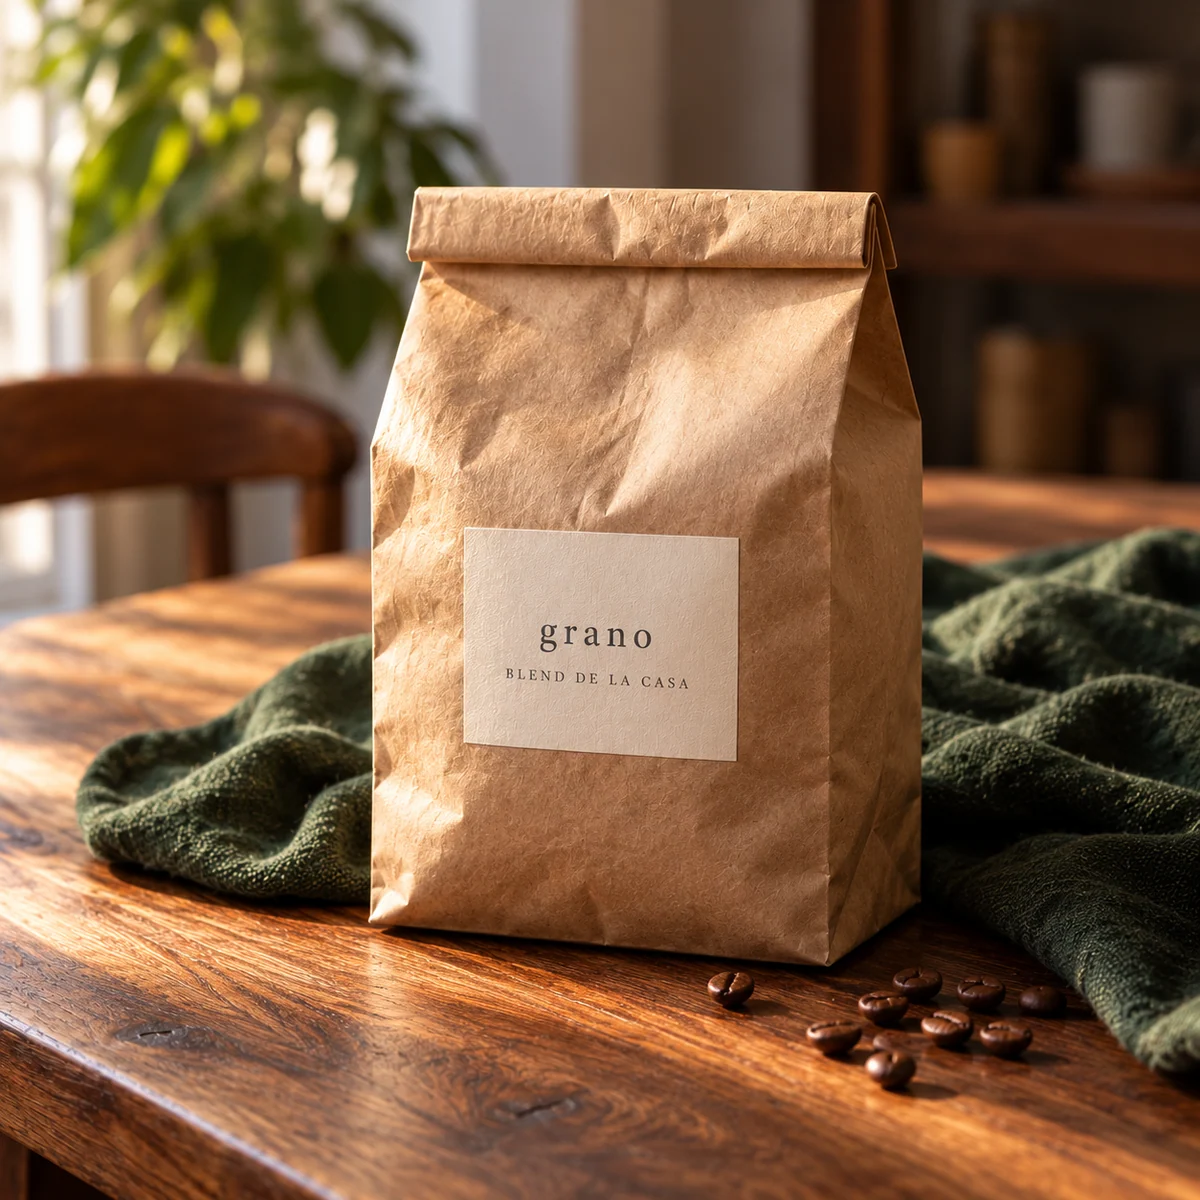
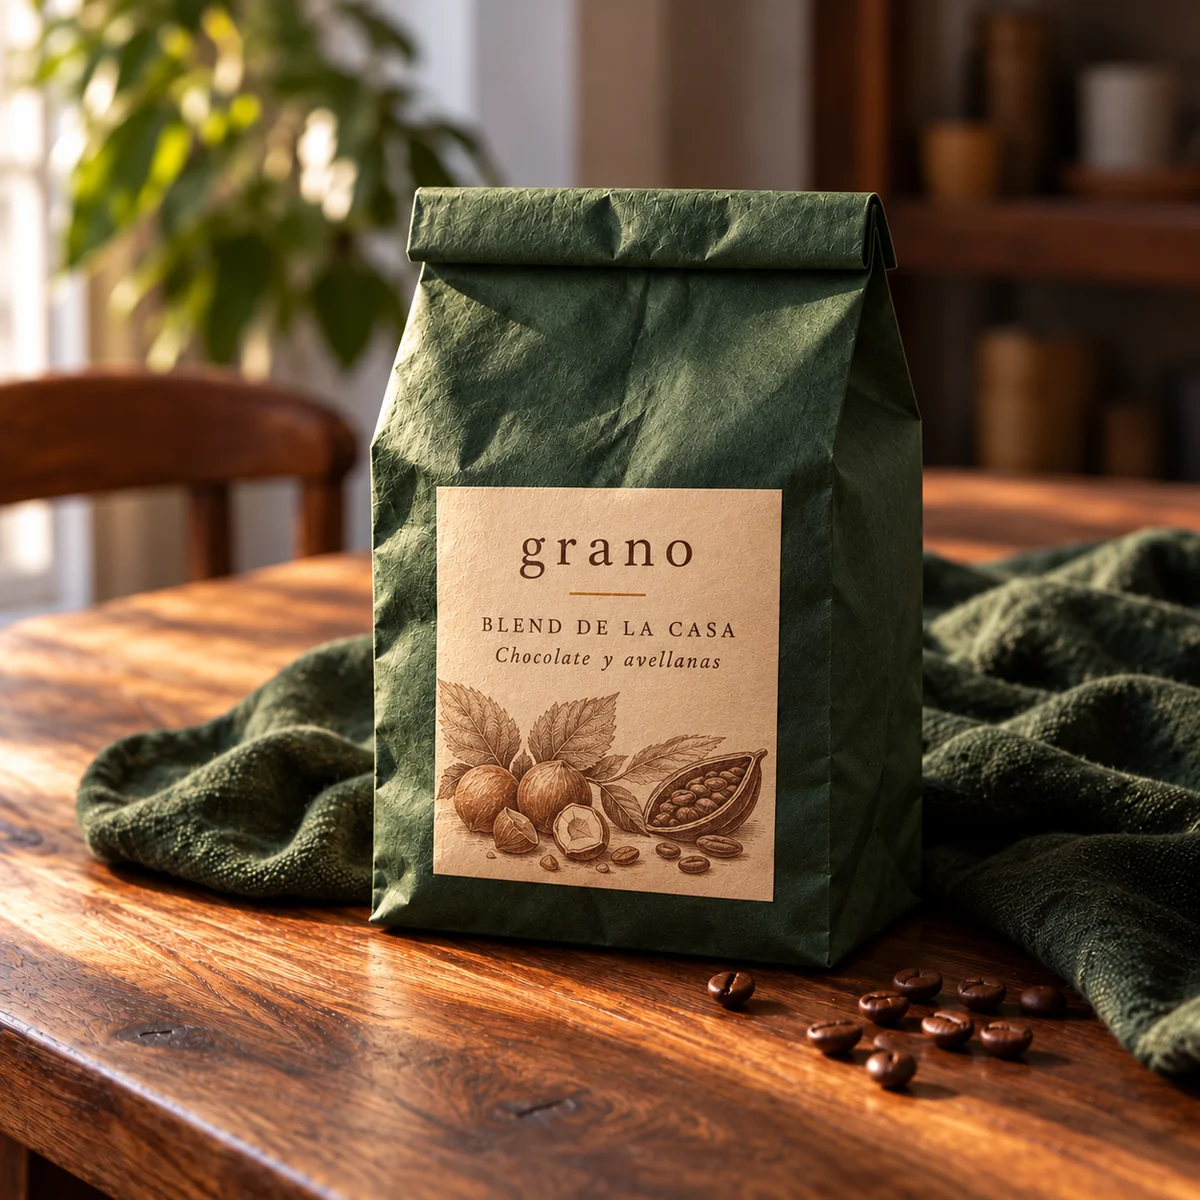
Cambiamos las bolsas según el sabor del café

diff --git a/src/assets/fotografia/README.md b/src/assets/fotografia/README.md
@@ -2,8 +2,14 @@
 
 Serie ilustrativa generada con la herramienta integrada OpenAI Imagegen el 30 de octubre de 2026. No son fotografías de productos físicos. La referencia visual es `../ritual-grano.png`, la portada original, que se conserva.
 
-Las seis imágenes comparten luz cálida de ventana desde la izquierda, mesa de nogal, lino verde bosque, fondo doméstico desenfocado y materiales tangibles. Las bolsas llevan papel kraft y etiqueta crema; la cerámica es color arena. No se añaden certificaciones ni promesas comerciales.
+Las seis imágenes comparten luz cálida de ventana desde la izquierda, mesa de nogal, lino verde bosque, fondo doméstico desenfocado y materiales tangibles. La cerámica es color arena. Los tres cafés tienen envases distintos según sus notas:
 
-Cada archivo `.webp.json` conserva el prompt completo, la herramienta, la referencia y la conversión aplicada. Los originales generados se redujeron proporcionalmente a 1200 × 1200 y se codificaron como WebP con calidad 86, sin editar las escenas. El catálogo, los detalles, el carrito y los enlaces de métodos comparten estos mismos recursos.
+- Colombia, cacao y caramelo: bolsa kraft con banda crema y terracota e ilustración botánica de cacao impresa en la etiqueta.
+- Etiopía, flores y cítricos: bolsa marfil con etiqueta vertical salvia, borde ocre y motivos de flores y cítricos.
+- Blend de la casa, chocolate y avellanas: bolsa verde bosque con etiqueta color avellana y grabados de cacao y avellanas.
+
+Los motivos gráficos representan notas de sabor; no declaran ingredientes añadidos. No se añaden certificaciones ni promesas comerciales. La portada conserva su envase original como imagen del ritual de la marca.
+
+Cada archivo `.webp.json` conserva el prompt completo, la herramienta, la referencia y la conversión aplicada. En los tres cafés se guarda también la generación anterior: el cambio de envase se realizó con Imagegen sobre la foto del commit `1df4367`. Los originales generados se redujeron proporcionalmente a 1200 × 1200 y se codificaron como WebP con calidad 86, sin editar las escenas después de generarlas. El catálogo, los detalles, el carrito y los enlaces de métodos comparten estos mismos recursos.
 
 Nosotros reutiliza la portada, la taza y el café Colombia. Los productos nuevos sin foto usan la portada como imagen ilustrativa de respaldo. Las imágenes propias cargadas desde administración se conservan.

diff --git a/DESIGN.md b/DESIGN.md
@@ -121,7 +121,9 @@ components:
 
 Grano se siente como papel avena cuidadosamente impreso, una mesa de madera y una pausa para preparar café. El mundo cálido y artesanal confirmado por el usuario se expresa mediante tinta bosque, serifas con cuerpo, controles sólidos y fotografías tangibles. La fotografía aporta textura; la interfaz conserva calma y legibilidad.
 
-La composición respira entre secciones y mantiene juntos sabor, nombre, precio y acción. El catálogo y Nosotros usan fotografía realista ilustrativa, coherente con la portada original: mesa de nogal, lino verde bosque, papel kraft, cerámica arena y luz cálida de ventana desde la izquierda. Este sistema describe la aplicación principal en React. La autoridad visual actual es `src/styles/diseno.css`, cargada después de los estilos anteriores.
+La composición respira entre secciones y mantiene juntos sabor, nombre, precio y acción. El catálogo y Nosotros usan fotografía realista ilustrativa, coherente con la portada original: mesa de nogal, lino verde bosque, envases de papel, cerámica arena y luz cálida de ventana desde la izquierda. Este sistema describe la aplicación principal en React. La autoridad visual actual es `src/styles/diseno.css`, cargada después de los estilos anteriores.
+
+Los envases de café se diferencian por sus notas sin cambiar la identidad de la tienda: Colombia conserva kraft con banda crema y terracota y un motivo de cacao; Etiopía usa papel marfil y etiqueta salvia con flores y cítricos; el blend lleva papel verde bosque y etiqueta avellana con motivos de cacao y avellanas. Estos motivos gráficos impresos expresan notas de cata, no ingredientes añadidos. La portada original se mantiene como fotografía del ritual de marca.
 
 **Key Characteristics:**
 - Papel claro y tinta bosque, con inversión de color en zonas de ritual y compra.
